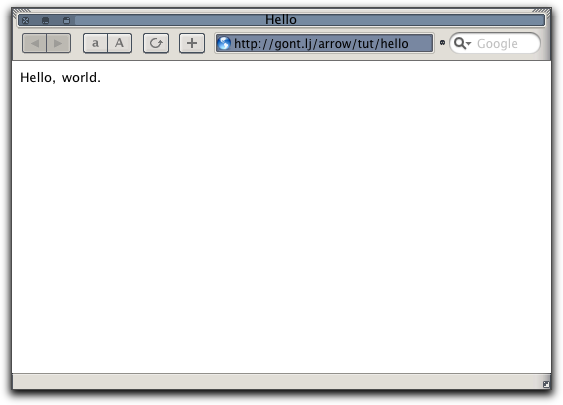
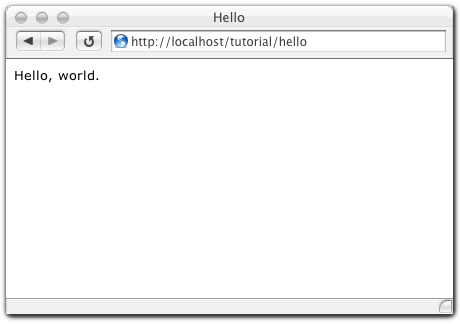
Initial checkin and revision of tutorial screenshots.
--HG--
extra : convert_revision : svn%3Ab4f3b83b-18d6-0310-a2de-c8f40de7a630/trunk%40187

Changed region(s): [[0.0, 0.0, 1.0, 0.9877]]

diff --git a/docs/manual/tutorial-apps.html b/docs/manual/tutorial-apps.html
@@ -170,43 +170,17 @@ action( :display ) {|txn|
 
 		<p>The two declarations are equivalent.</p>
 
-		<h3>Action Signature Proxy</h3>
-
-		<p>For convenience, the <tt>action</tt> shortcut also returns an
-		  object that can be used to add templates and/or validation profiles to
-		  the Signature, but keep them together with the action they are used
-		  by:</p>
-
-<pre>
-formaction = action( :form ) {|txn|
-    templ = self.loadTemplate( :form )
-    templ.txn = txn
-    return templ
-}
-
-formaction.template = "form.tmpl"
-</pre>
-
-
 		<h3>Action Execution</h3>
 
-		<p>When the <tt>Broker</tt> runs the applet, it does so by calling
-		  <tt>Applet#run</tt> with the <tt>Arrow::Transaction</tt> object, the
-		  name of the action to invoke, and any additional arguments passed in
-		  the URI.</p>
-
-		<p>The applet's <tt>#run</tt> method looks up the appropriate action
-		  method, creates an argument validator, then calls the action
-		  method.</p>
-
-		<p>The action method should do the necessary processing to build the
-		  response data and return it as an object. This object will then be
-		  converted to a <tt class="class-name">String</tt> (via <tt
-		  class="method-name">#to_s</tt>) and sent to the client after doing the
-		  necessary header setting and Apache housekeeping. Returning a non-true
-		  value causes a <tt>DECLINED</tt> status to be sent back to
-		  Apache. This can be used to pass control to a further handler if the
-		  action determines it cannot handle the request.</p>
+		<p>When an action method is called, it should do the necessary
+		processing to build the response data and return it to its caller. This
+		return value will then be converted to a <tt
+		class="class-name">String</tt> (via <tt class="method-name">#to_s</tt>)
+		and sent to the client after doing the necessary header setting and
+		Apache housekeeping. Returning a non-true value causes a
+		<tt>DECLINED</tt> status to be sent back to Apache. This can be used to
+		pass control to a further handler if the action determines it cannot
+		handle the request.</p>
 	  </div>
 
 	  <!-- Example -->
@@ -261,19 +235,50 @@ applets:
 </pre>
 
         <p>After the config has been loaded, requests for
-        <code>/&lt;arrow-root&gt;/hello</code> and
-        <code>/&lt;arrow-root&gt;/hello/greet</code> will return something that
-        looks like:</p>
+        <code>/&lt;arrow-root&gt;/hello/greet</code> (and simply
+        <code>/&lt;arrow-root&gt;/hello</code>, because <tt>greet</tt> is the
+        default action) will return something that looks like:</p>
 
 		<div class="screenshot">
-		  <img src="hello-world-sshot.png" alt="screenshot" height="405" width="563" />
+		  <img src="hello-world-sshot.png" alt="screenshot" height="324" width="460" />
 		</div>
-
-        <p>, while <code>/&lt;arrow-root&gt;/hello/text</code> will return
-        the plain-text version.</p>
 
 	  </div>
 
+	  <div class="section">
+		<h2><a href="#arguments" id="arguments">Passing REST-style Arguments</a></h2>
+
+		<p>Now let's add a bit of personalization to the applet. Perhaps it
+		should be able to generate customizable messages in addition to greeting
+		the entire world. To do this, we can make the <tt>greet</tt> action take
+		an additional argument specified in the URL:</p>
+
+<pre>
+  # Define the 'greet' (default) action
+  action( :greet ) {|txn<strong>, name</strong>|
+    <strong>name ||= "world"</strong>
+
+    return &lt;&lt;-EOF
+	&lt;html&gt;
+	  &lt;head&gt;&lt;title&gt;Hello&lt;/title&gt;&lt;/head&gt;
+	  &lt;body&gt;&lt;p&gt;Hello, <strong>#{name}</strong>.&lt;/p&gt;&lt;/body&gt;
+	&lt;/html&gt;
+    EOF
+  }
+
+end
+</pre>
+
+		<p>Calling the applet with a URL like <code>/hello/greet/Dave</code>
+		will now cause it to greet only Dave instead:</p>
+
+		<div class="screenshot">
+		  <img src="hello-dave-sshot.png" alt="screenshot" height="324" width="464" />
+		</div>
+
+		<p>Note that we're required to call the action </p>
+
+	  </div>
 
 	  <div class="section">
 		<h2><a href="#chaining" id="chaining">Applet Chaining</a></h2>
@@ -293,6 +298,25 @@ applets:
 		<p></p>
 		<h3>?(example)?</h3>
 		<p></p>
+
+		<h3>Action Signature Proxy</h3>
+
+		<p>For convenience, the <tt>action</tt> shortcut also returns an
+		  object that can be used to add templates and/or validation profiles to
+		  the Signature, but keep them together with the action they are used
+		  by:</p>
+
+<pre>
+formaction = action( :form ) {|txn|
+    templ = self.loadTemplate( :form )
+    templ.txn = txn
+    return templ
+}
+
+formaction.template = "form.tmpl"
+</pre>
+
+
 	  </div>
 
 	  <div class="section">
